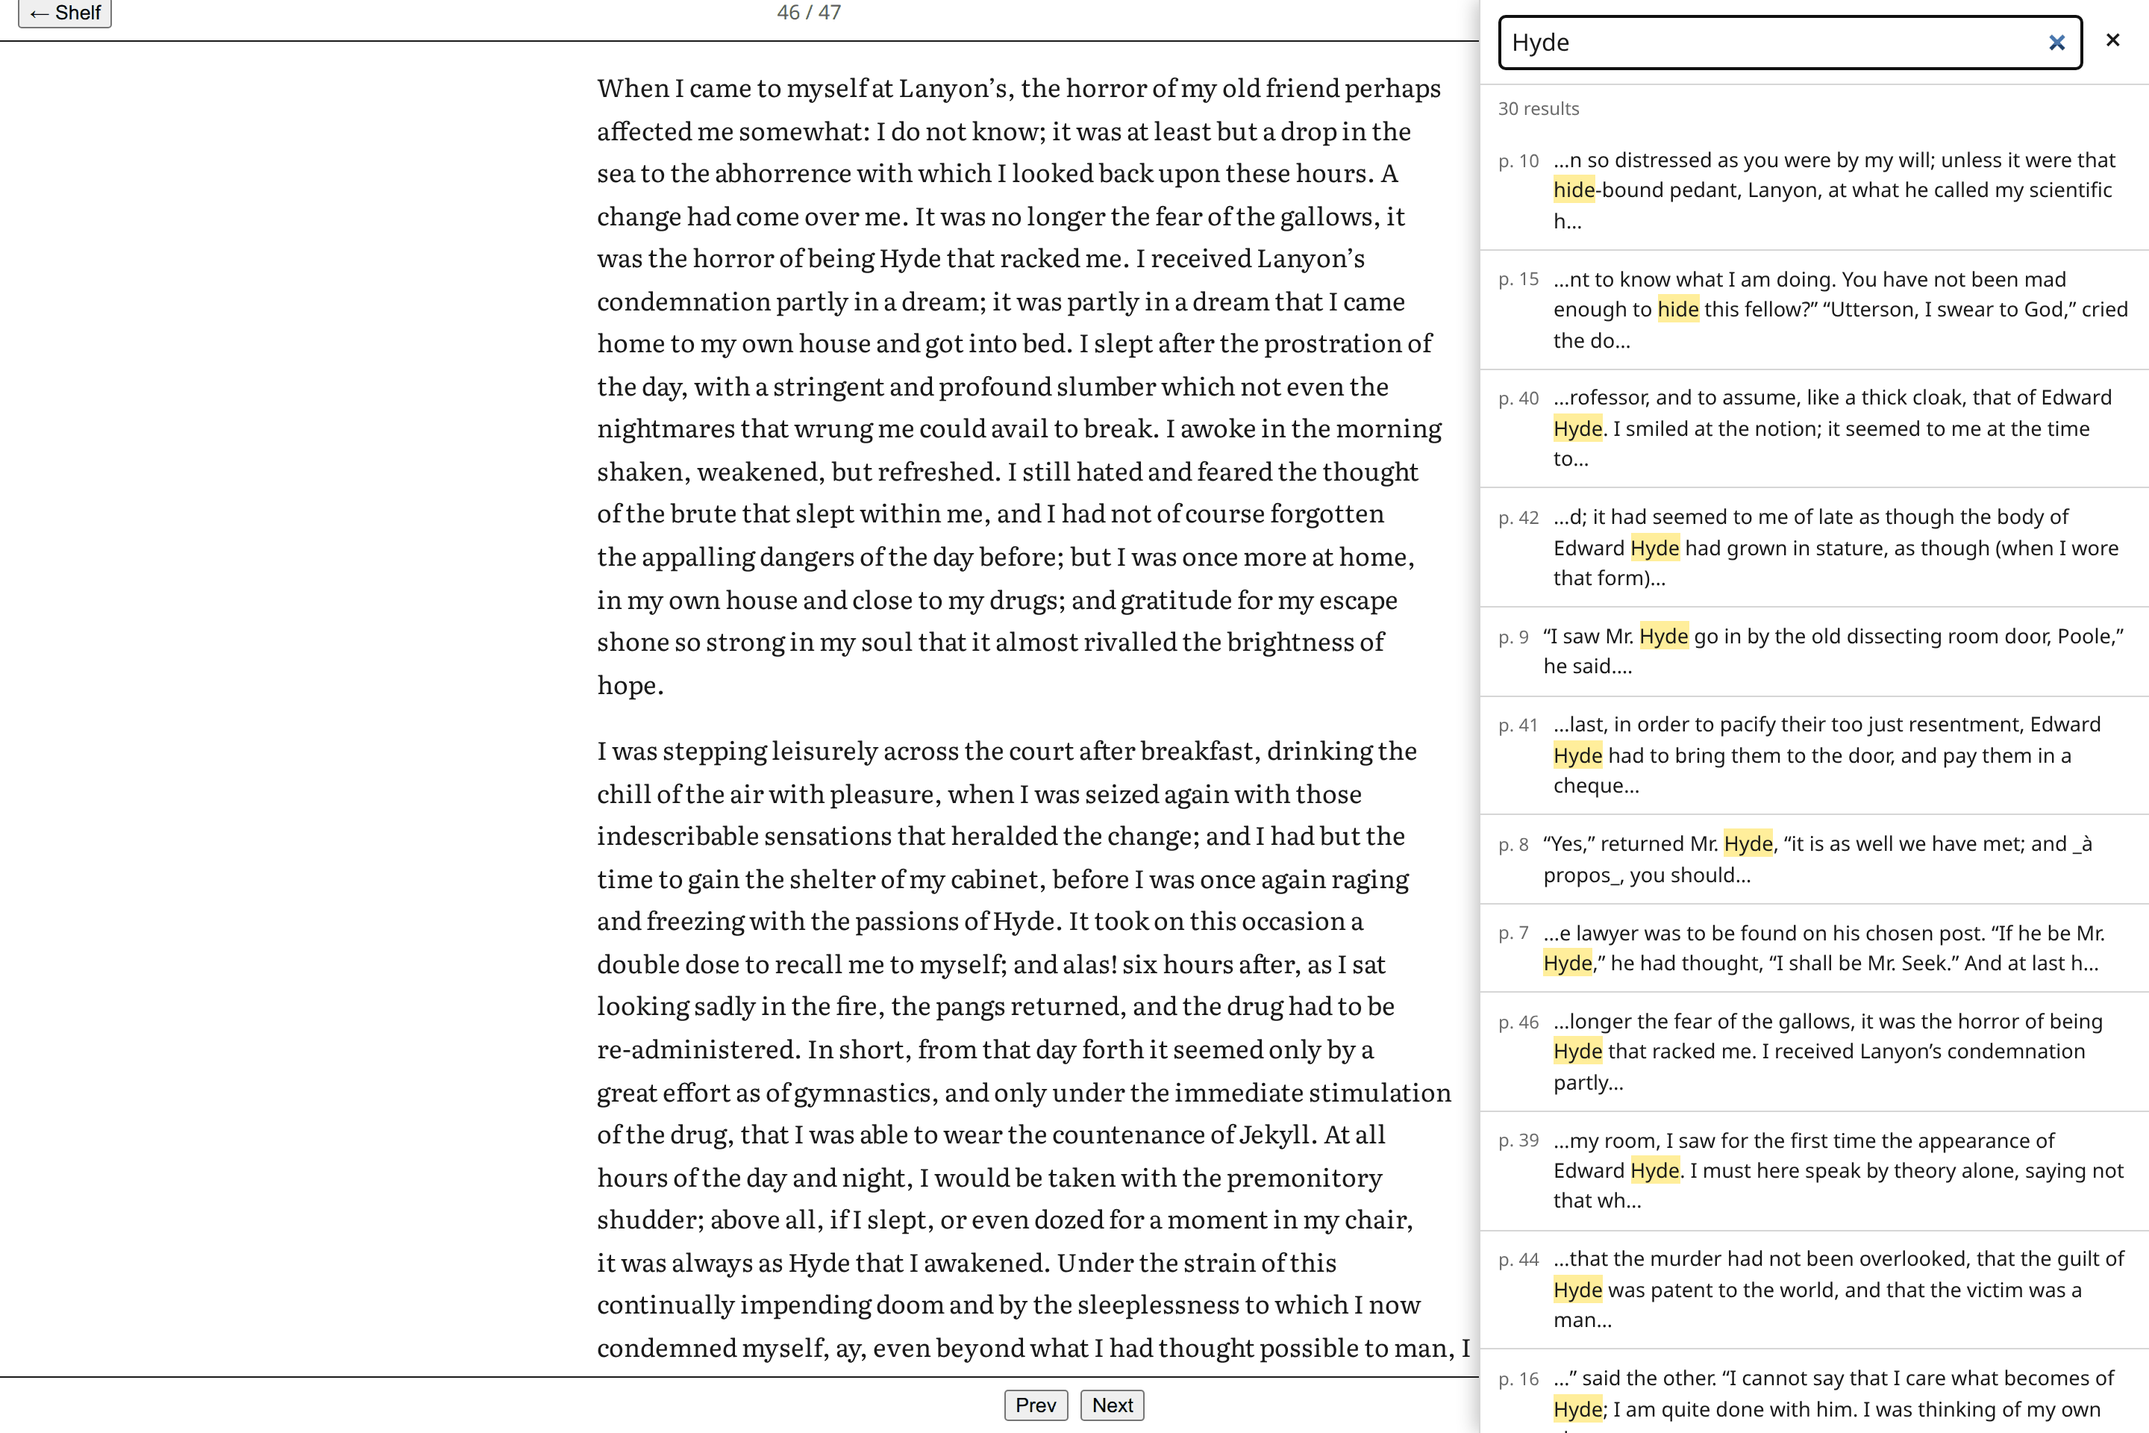
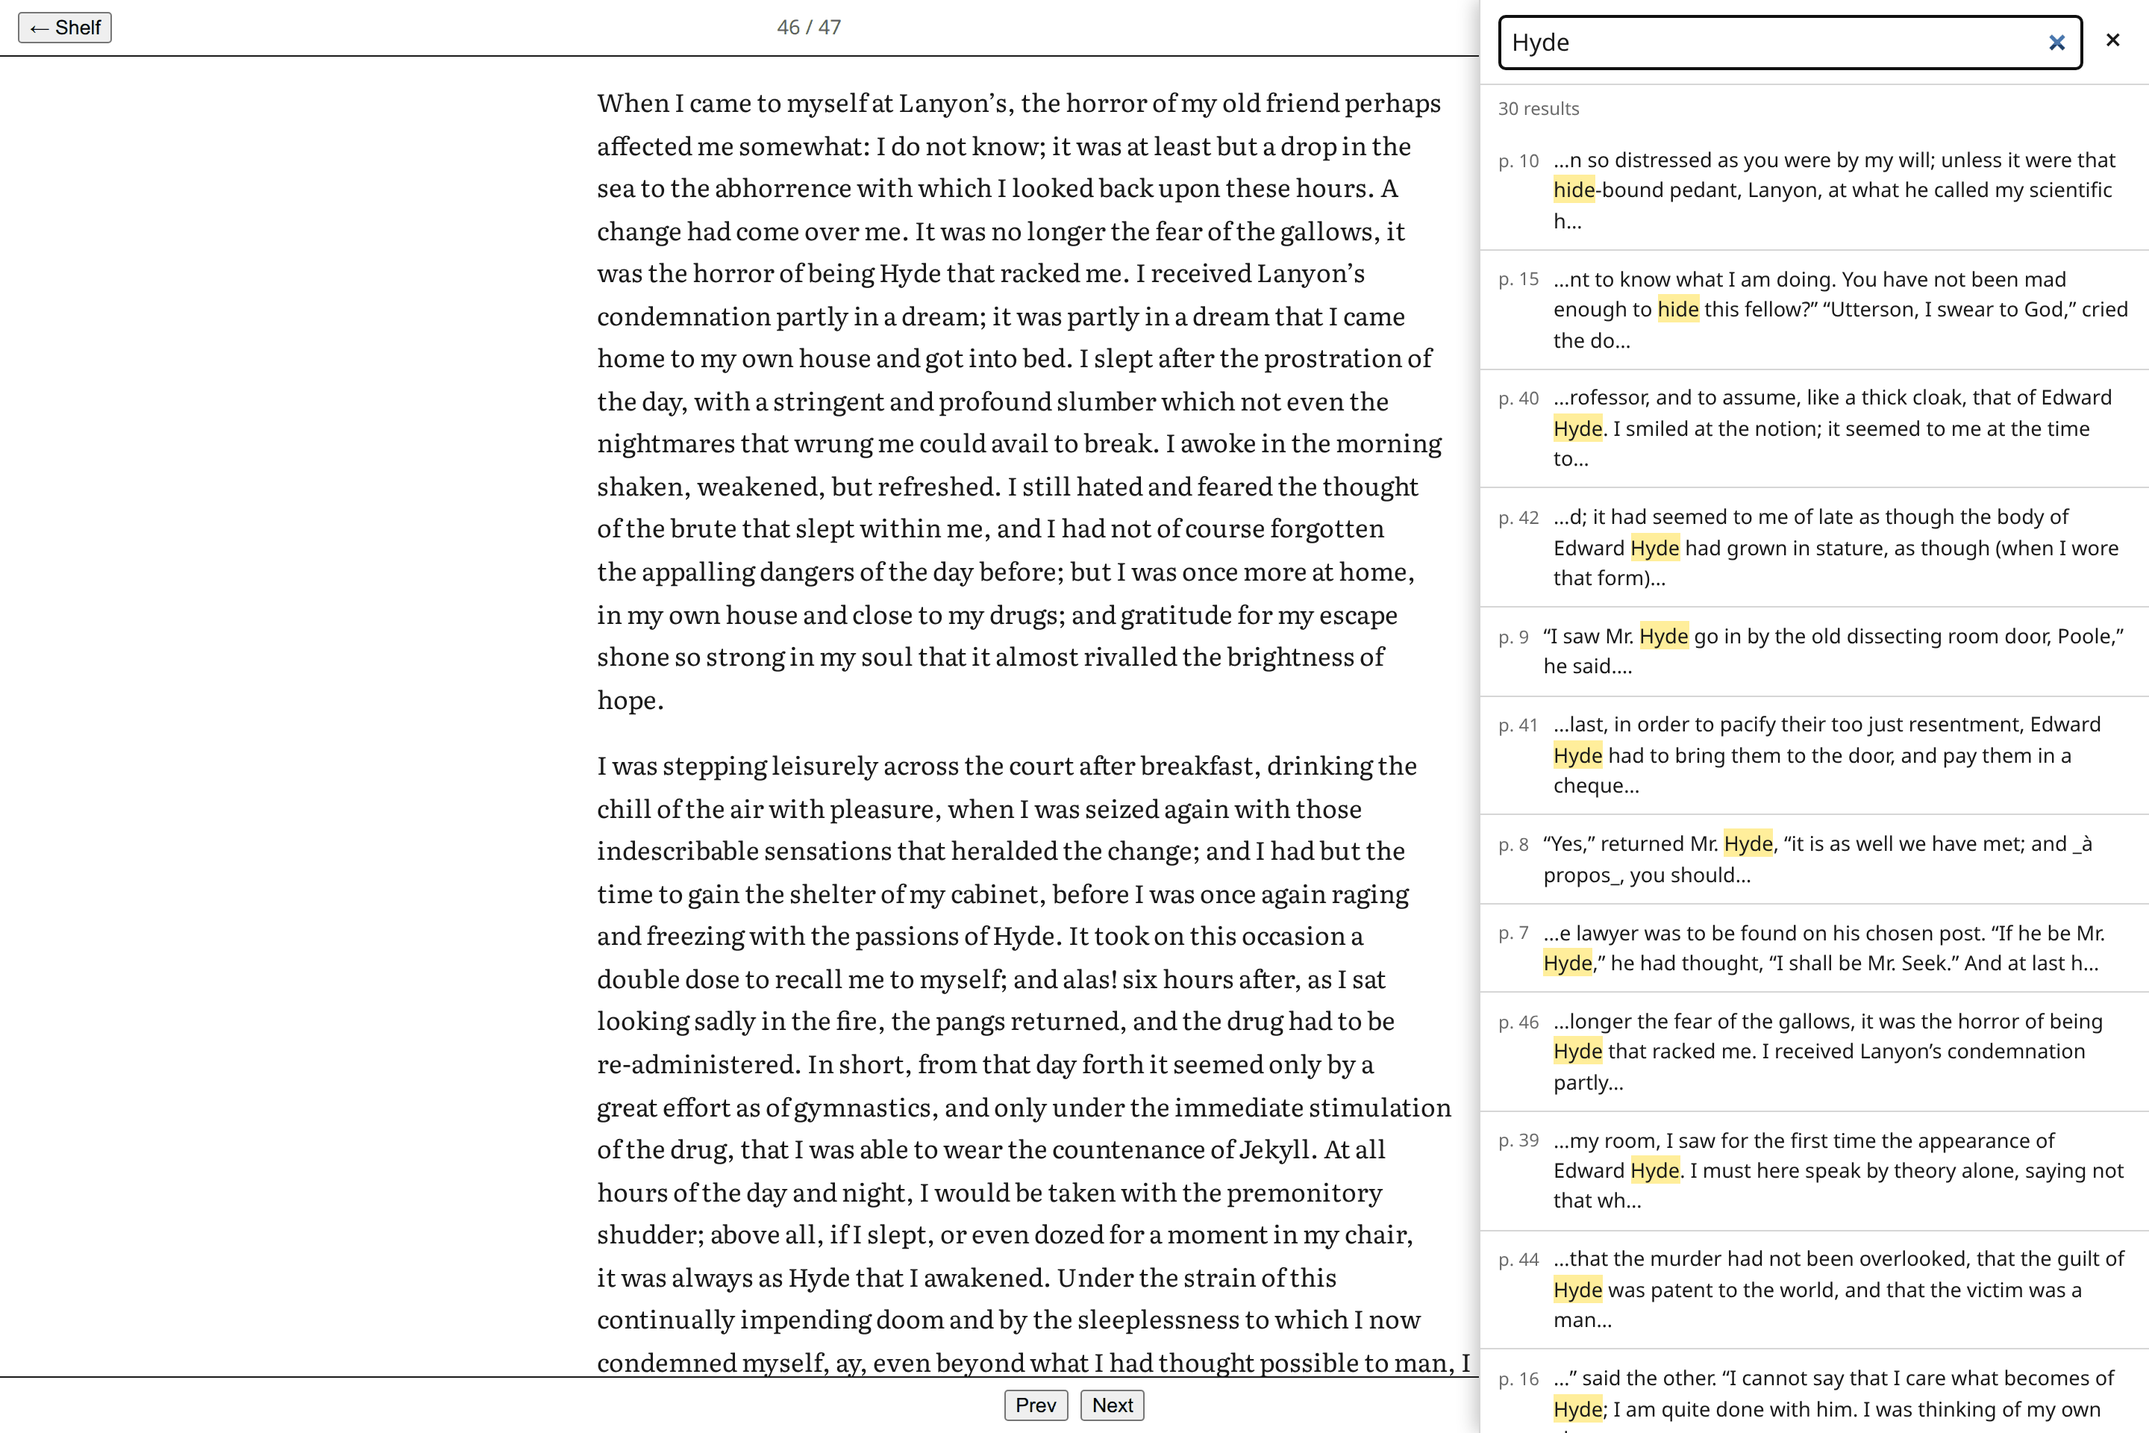
M1: verify cycle 18 on a real bake, and real gate screenshots
Cycle 18 shipped but was never observed working. Two deployment faults first:
the imagegen-service unit runs tsx from the repo working directory, so the
checked-out branch is what runs -- it was on feat/img2img while the fix sat on
an unmerged branch. And qwen3.5:9b was pinned 98% on CPU with 9.8GB of VRAM
free, because ollama fixes the split at load time and it loaded while SDXL was
resident; P1 went from 8 minutes to 2 after a reload.

Verified on pg-43: all 11 portraits single-figure (F1), 13 plates that are
genuinely different scenes rather than copies of one reference (F2/F3), and the
gate ranking by anchor count (F5).

Screenshots re-captured against these bakes. 04 and 05 are now live gates with
working Approve/Regenerate rather than the read-only view a published book
shows, which needed the server without AUTO_APPROVE and two books parked
mid-bake; 01 shows three books in three states.

tools/postprocess-screenshots.py trims dead margins and quantises, 11.4MB ->
4.1MB. Its first version averaged sampled pixels per line and silently cropped
744px off the annotations panel; it now requires every pixel in a line to match.

Changed region(s): [[0.2812, 0.0, 0.6875, 0.9688], [0.0, 0.0, 0.0625, 0.0312]]

diff --git a/tools/postprocess-screenshots.py b/tools/postprocess-screenshots.py
@@ -1,0 +1,86 @@
+#!/usr/bin/env python3
+"""Trim dead margins off the captured screenshots and shrink them for the repo.
+
+    python3 tools/postprocess-screenshots.py [--dir docs/assets/screenshots] [--dry-run]
+
+Capture gets the *state* right; this gets the *framing* right. Clipping inside the browser needs a
+DOM anchor for every panel, and several of the app's panels scroll internally or sit under a
+full-viewport backdrop, so the measured bottom is the viewport rather than the content. Trimming
+uniform rows/columns afterwards is layout-independent and needs no per-panel selector.
+
+Two passes:
+  1. crop away uniform bottom/right margins, keeping a small even border
+  2. quantise to a 256-colour palette — these are flat UI screenshots, so it is visually lossless
+     and roughly a 3x saving; PNG stays PNG so nothing else in the docs has to change
+"""
+
+from __future__ import annotations
+
+import argparse
+from pathlib import Path
+
+import numpy as np
+from PIL import Image
+
+MARGIN = 24  # px of breathing room to keep after a trim (in captured 2x pixels)
+TOL = 6  # per-channel tolerance when deciding a row/column is uniform
+
+
+def _trailing_uniform(flags) -> int:
+    """How many trailing entries of a boolean 'this line is all background' array are True."""
+    n = 0
+    for value in reversed(flags.tolist()):
+        if not value:
+            break
+        n += 1
+    return n
+
+
+def trim(im: Image.Image) -> Image.Image:
+    """Crop uniform bottom/right margins.
+
+    Every pixel in a line must match the background within TOL. An earlier version averaged a
+    sample of pixels per line, which silently ate real content: a row of small buttons averages
+    out to near-background, so the annotations panel lost 744px of its width.
+    """
+    im = im.convert("RGB")
+    w, h = im.size
+    arr = np.asarray(im, dtype=np.int16)
+    ref = arr[h - 1, w - 1]
+    is_bg = (np.abs(arr - ref) <= TOL).all(axis=2)  # (h, w) — True where pixel is background
+
+    bottom = _trailing_uniform(is_bg.all(axis=1))
+    right = _trailing_uniform(is_bg.all(axis=0))
+    new_h = h - max(0, bottom - MARGIN)
+    new_w = w - max(0, right - MARGIN)
+    if (new_w, new_h) == (w, h):
+        return im
+    return im.crop((0, 0, max(new_w, 320), max(new_h, 240)))
+
+
+def main() -> None:
+    ap = argparse.ArgumentParser()
+    ap.add_argument("--dir", default="docs/assets/screenshots")
+    ap.add_argument("--dry-run", action="store_true")
+    args = ap.parse_args()
+
+    total_before = total_after = 0
+    for path in sorted(Path(args.dir).glob("*.png")):
+        before = path.stat().st_size
+        im = Image.open(path)
+        size_before = im.size
+        out = trim(im)
+        quantised = out.quantize(colors=256, method=Image.MEDIANCUT)
+        if not args.dry_run:
+            quantised.save(path, optimize=True)
+        after = path.stat().st_size
+        total_before += before
+        total_after += after
+        note = "" if size_before == out.size else f"  {size_before} -> {out.size}"
+        print(f"{path.name:26} {before // 1024:5}KB -> {after // 1024:5}KB{note}")
+
+    print(f"\ntotal {total_before // 1024}KB -> {total_after // 1024}KB")
+
+
+if __name__ == "__main__":
+    main()

diff --git a/docs/SCREENSHOTS.md b/docs/SCREENSHOTS.md
@@ -1,8 +1,13 @@
 # Screenshots
 
-Every screenshot in the docs is **real** — captured from a live stack against a baked copy of
-*The Strange Case of Dr. Jekyll and Mr. Hyde* (Gutenberg 43, oil-painting style, 47 pages, 29
-plates, 15 cast entries).
+Every screenshot in the docs is **real** — captured from a live stack, never mocked up. Three books
+were baked to produce them, because several shots only exist while a bake is *parked at a gate*:
+
+| Book | Style | Left at | Gives us |
+|---|---|---|---|
+| *The Strange Case of Dr. Jekyll and Mr. Hyde* (Gutenberg 43) | oil-painting | **published** | the whole reader, plus book detail + post-render |
+| *The Yellow Wallpaper* (Gutenberg 1952) | watercolor | **`prompts_draft`** | the review gate with live Approve/Save controls |
+| *The Legend of Sleepy Hollow* (Gutenberg 41) | engraving | **`portraits_review`** | the portrait gate, ranked, with live Regenerate |
 
 ## Re-capturing them
 
@@ -10,31 +15,45 @@ They are reproducible, not hand-taken. After a UI change:
 
 ```bash
 npm install --no-save playwright && npx playwright install chromium   # once
-node tools/capture-screenshots.mjs                                    # all sixteen
+node tools/capture-screenshots.mjs                                    # all fifteen
 node tools/capture-screenshots.mjs --only 08,13                       # just these
-node tools/capture-screenshots.mjs --book pg-28054                    # a different book
+node tools/capture-screenshots.mjs --only 04 --book pg-1952           # a specific book
+python3 tools/postprocess-screenshots.py                              # ALWAYS run this after
 ```
 
-The stack must be up (`:8720`, plus the TTS and imagegen services for a fresh bake), and the book
-named by `--book` must be **published**. Shots land in `docs/assets/screenshots/` at 2× for crisp
-rendering, 1440 px wide, cropped to their content.
+`postprocess-screenshots.py` crops dead margins and quantises to a 256-colour palette — about a 2.6x
+saving (11.4 MB → 4.3 MB) and visually lossless on flat UI. **Run it after every capture**, or the
+repo gains several MB of mostly-white PNG.
+
+### The two gate shots need a parked bake
+
+`04` and `05` photograph controls that only exist mid-bake, so they cannot be taken against a
+published book:
+
+- **Start the server without `AUTO_APPROVE`.** With it set, a bake self-approves straight through
+  the plate gate (ADR-0015) and `04` is only ever available read-only.
+- **`04`** needs a book resting at `prompts_draft` — pass `--book` for it.
+- **`05`** needs one at `portraits_review`, which means baking with `"portrait_review": true`.
+- Capture these *before* letting those books finish. A plain `node tools/capture-screenshots.mjs`
+  run re-shoots them against `--book`'s default and will overwrite a good gate shot with the
+  read-only view.
 
 ## The set
 
 | # | File | Used in | Shows |
 |---|---|---|---|
-| 1 | `01-books-list.png` | making-books | Admin **Books** list with per-book state. |
+| 1 | `01-books-list.png` | making-books | Admin **Books** list — three books, three different states. |
 | 2 | `02-new-book-wizard.png` | making-books | **New Book** wizard: choose a book + the art-style tiles. |
 | 3 | `03-book-detail.png` | making-books | **Book detail**: the bake milestones, Ingested → Published. |
-| 4 | `04-review-gate.png` | making-books | The **review gate**: plate list, prompts, cast panel. |
-| 5 | `05-portrait-review.png` | making-books | **Portrait review**, ranked by how many pictures each portrait anchors (ADR-0028). |
+| 4 | `04-review-gate.png` | making-books | The **review gate**, live: editable prompts, cast panel, "depicted not in cast" warnings. |
+| 5 | `05-portrait-review.png` | making-books | **Portrait review**, live — ranked by how many pictures each portrait anchors (ADR-0028). |
 | 6 | `06-post-render.png` | making-books | **Post-render** review: rendered plates with per-plate Regen. |
 | 7 | `07-profile-picker.png` | reading-books | Reader **profile picker**. |
-| 8 | `08-shelf.png` | reading-books, README | The **shelf**, mid-download (`Downloading 8/129…`). |
+| 8 | `08-shelf.png` | reading-books, README | The **shelf**, mid-download (`Downloading 7/101…`). |
 | 9 | `09-reading-surface.png` | reading-books, README | The **reading surface** with a full-page plate. |
 | 10 | `10-cast-page.png` | reading-books, README | **Dramatis Personae** — portraits + one-line descriptions. |
 | 11 | `11-pictures-picker.png` | reading-books, README | The **Pictures** picker with all sixteen art styles. |
-| 12 | `12-search.png` | reading-books | **Search**: 30 hits for "Hyde" with page numbers. |
+| 12 | `12-search.png` | reading-books | **Search**: hits for "Hyde" with page numbers. |
 | 13 | `13-annotations.png` | reading-books | **Annotations** with three colour-filtered highlights. |
 | 14 | `14-lightbox.png` | reading-books | A plate **enlarged** full-screen. |
 | 15 | `15-settings.png` | reading-books | **Settings**: typeface, size, theme, profile, sync. |
@@ -43,8 +62,10 @@ rendering, 1440 px wide, cropped to their content.
 
 - **The README banner** ([`assets/banner.svg`](assets/banner.svg)) is a finished hand-drawn SVG and
   stays that way — no hero screenshot is needed. Replace that file if you ever want a baked one.
-- **4, 5 and 6 are shown on a published book**, so they carry a read-only notice and no Approve /
-  Regenerate buttons. Those controls only exist while a bake is parked at the gate; catching them
-  live would mean holding a bake mid-flight.
-- **1 shows a single book** because that is what the capture box had. It will look better on a
-  library with several books and a picture set or two grouped under their parent.
+- **`06` is shown on a published book.** `rendered → published` is an automatic phase (P8) with no
+  human gate, so the post-render screen is only "live" for the ~5 s between them. The page itself is
+  identical; only the Regen buttons are inert.
+- **`08` needs a throttle.** A 1.6 MB bundle over localhost finishes in well under a second, so the
+  capture script slows the transfer over CDP or there is no progress line to photograph.
+- **Shot heights vary** because each is cropped to its own content. That is deliberate — a fixed
+  viewport left most of these two-thirds white.

diff --git a/CYCLE-LOG.md b/CYCLE-LOG.md
@@ -2386,3 +2386,65 @@ generated types in sync.
 - `cast-canonicalize` bans the substring `'kind'`, so `kartashov` — "jolly, **kind**, dear little
   eyes" — 422'd through the whole retry ladder and shipped with no description and no portrait. A
   word-boundary match would fix it; text-transform-service change, not filed yet.
+
+---
+
+## M1 · Cycle 19 — Cycle 18 verified end-to-end, and real gate screenshots (2026-08-12)
+
+**Why.** Cycle 18 shipped but was never observed working: the imagegen-service restart that carries
+F2 had not happened, and the repo's screenshots were still from the pre-fix engine. This cycle put
+the fixes in front of a real bake and photographed the result.
+
+**Two deployment faults found before any of it could work**
+- The service restarted cleanly onto **the wrong code**. Its unit runs `tsx` from the repo working
+  directory with no build step, so *the checked-out git branch is what runs*; the repo sat on
+  `feat/img2img` while F2 was on an unmerged branch. A new PID proves nothing — check the branch.
+  (Merged: identity conditioning as imagegen ADR-0005, img2img renumbered to ADR-0006.)
+- `qwen3.5:9b` was pinned **98% on CPU** with 9.8 GB of VRAM free, because ollama fixes the CPU/GPU
+  split at load time and it had loaded while SDXL was resident. P1 took 8 minutes and brushed
+  `waiting_gpu`; after `ollama stop`, 47 pages of mentions took 2. Nothing reported this as a fault
+  — `/api/admin/gpu` said `"loaded": true`.
+
+**Verified on a real bake** (pg-43, oil-painting, `portrait_review: true`)
+- **F1 holds.** All 11 portraits rendered as single figures. Prompts carry one subject noun phrase
+  followed by attribute clauses, exactly as designed.
+- **F2/F3 hold.** The 13 plates are genuinely different scenes — street, fireside, laboratory,
+  moonlit lane, a man before a mirror. Composition now belongs to the prompt, which is the whole
+  point of `start_at: 0.30`. Nothing resembles the Karamazov failure, where every plate was a copy
+  of one reference painting.
+- **F5 holds.** The gate ranks by anchor count and says so: Utterson `5 pictures` first, then 2, 2,
+  1, and six portraits at `0 pictures`.
+
+**Still broken (not regressions — newly measured)**
+- **Narrative leaks into portraits through `one_line`.** `subject_attributes` strips narrative verbs
+  from `visual_description` but `assemble_portrait` keeps `one_line` verbatim as the subject. So
+  "Little man in dark clothes **walking eastward through**…" renders a street scene, and Sleepy
+  Hollow's Ichabod — who anchors 4 pictures — is a man **on horseback** rather than a bust.
+  Regenerating cannot help; the prompt is the same. The strip belongs on both fields.
+- **Duplicate cast entries survive.** `jekyll` / `dr-jekyll` / `henry-jekyll` rendered as three
+  different men, likewise `hyde` / `mr-hyde` / `edward-hyde`, and `van-tassel` / `old-baltus-van-tassel`.
+  Cycle 17/18 stopped descriptors pooling through bad aliases but nothing merges name variants of one
+  character. This is now the largest remaining source of face inconsistency — bigger than conditioning.
+- **6 of 11 portraits anchored 0 plates** — GPU time spent on references nothing uses.
+- **Multi-figure plates mostly render one figure.** The 0.35/0.4 reduction avoids two clones but does
+  not produce two people; still ADR-0023 Phase 2 (regional masking).
+- **The author leaked into the cast.** *The Yellow Wallpaper* lists "Charlotte Perkins Gilman" as a
+  major character with plates depicting her; the narrator is unnamed. Cover prompt reads `by :`.
+
+**Shipped**
+- 15 real screenshots, re-captured against these bakes, replacing the pre-fix set.
+- `04` and `05` are now **live gates** with working Approve/Regenerate, not the read-only view a
+  published book shows. That needed the server run without `AUTO_APPROVE` and two books parked mid-bake
+  (pg-1952 at `prompts_draft`, pg-41 at `portraits_review`); `01` now shows three books in three states.
+- `tools/postprocess-screenshots.py` — trims dead margins and quantises (11.4 MB → 4.1 MB). Its first
+  version averaged sampled pixels per line and silently ate a 744px-wide strip of the annotations
+  panel; it now requires every pixel in a line to match the background.
+- `tools/capture-screenshots.mjs`: skip the reader half when `--only` selects no reader shot, clip to
+  real content (the app shell claims full viewport height so `fit()` alone cannot shrink a short page),
+  case-insensitive block matching (admin headings are uppercased in CSS, so the DOM text is `Controls`),
+  and a taller viewport for the internally-scrolling styles list.
+
+**Gates.** ruff clean · eslint + tsc clean (reader, admin-ui) · 496 passed, 4 deselected.
+
+**Inference.** Left pg-1952 and pg-41 parked rather than finishing them — they are what makes the two
+gate screenshots reproducible. Delete or approve them when done; `01`/`04`/`05` need re-taking after.
